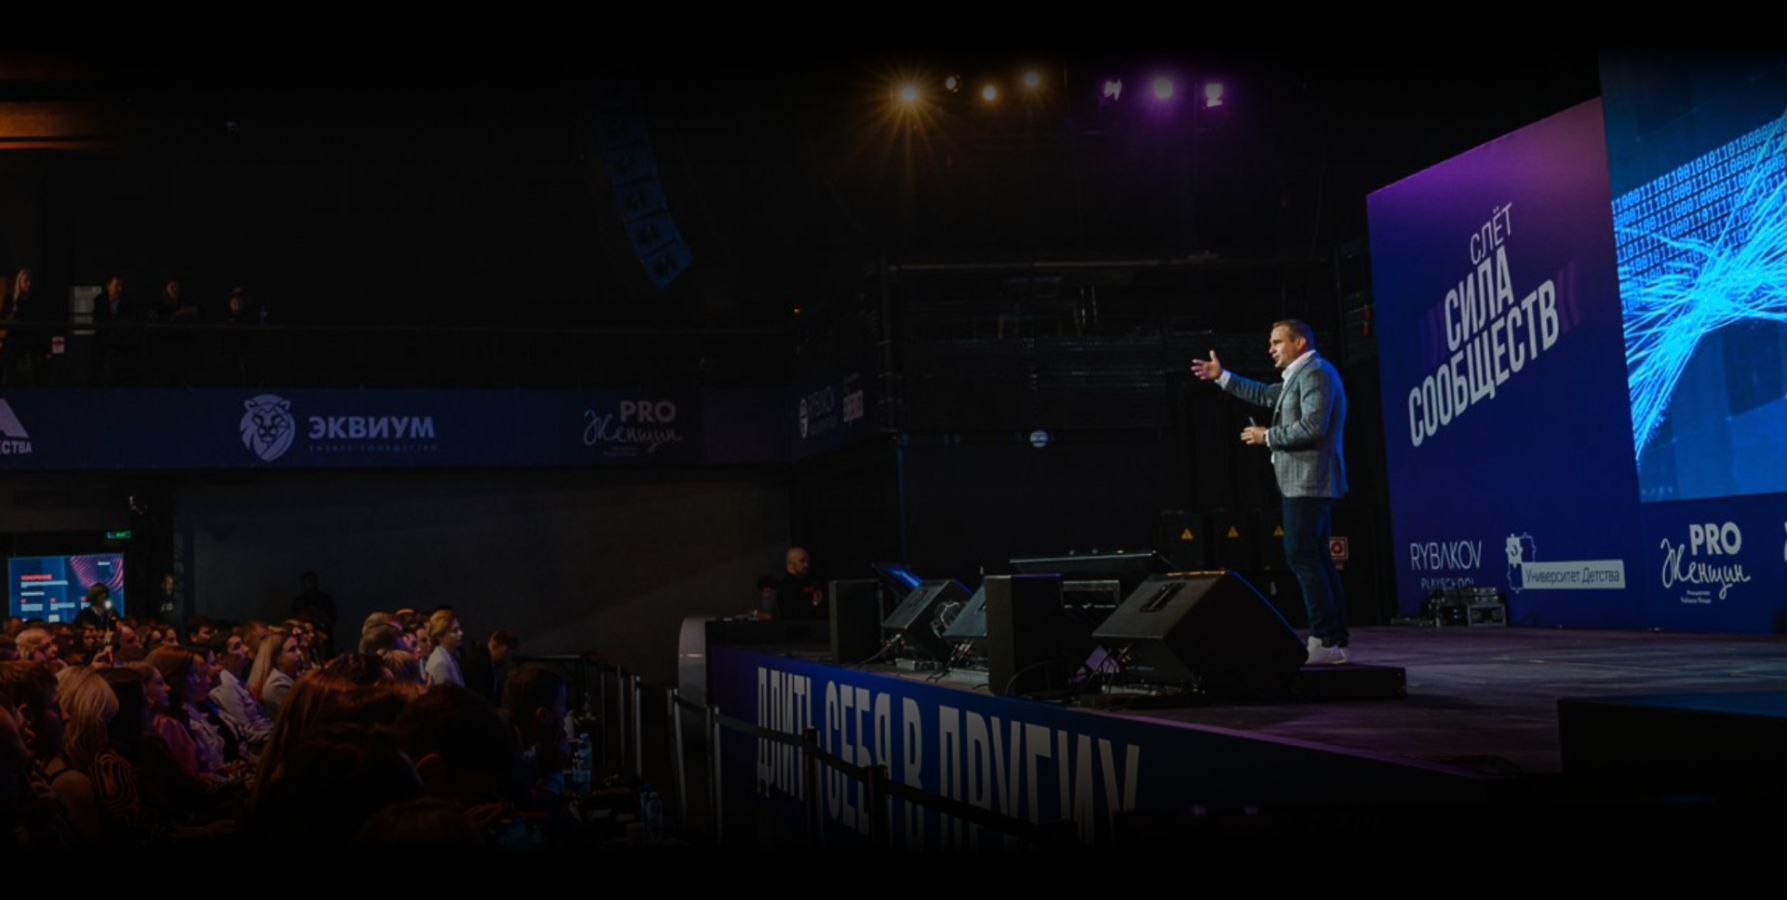
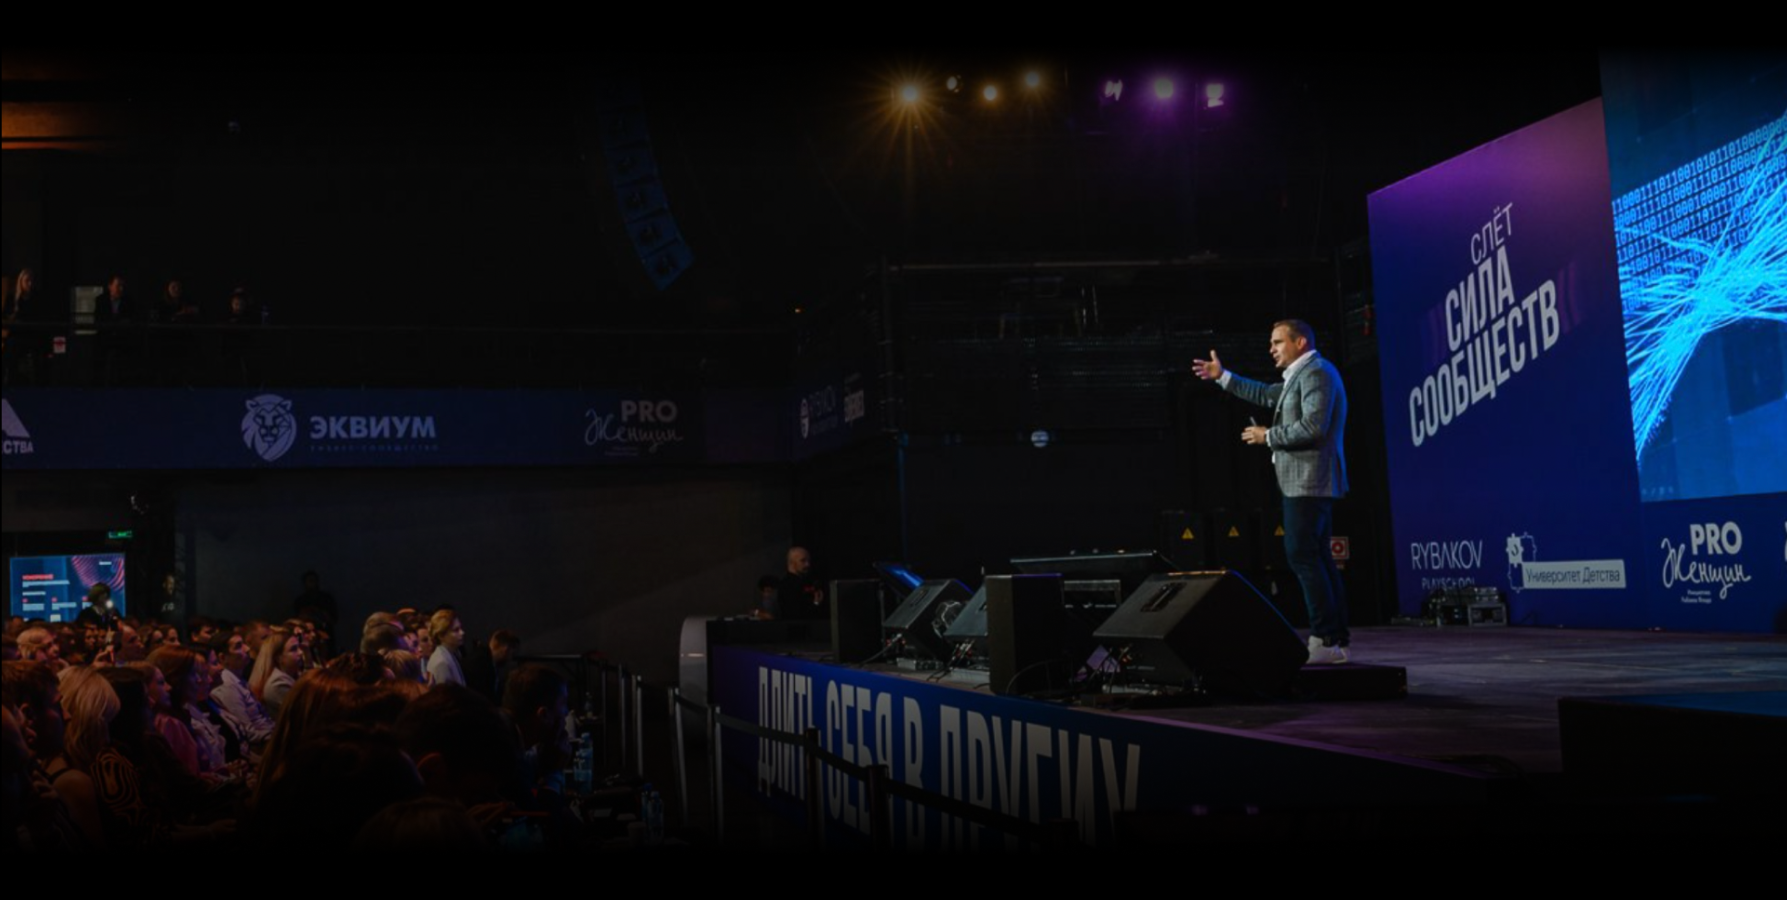
complex bg

diff --git a/index1.html b/index1.html
@@ -154,7 +154,7 @@
             </tr>
             <tr>
                 <td>
-                    <table align="center" valign="top" border="0" bgcolor="#000000" cellspacing="0" cellpadding="0" role="presentation" width="100%" background="photo1.png" height="900" style="width:100%;height:900px; background-image:url(photo1.png);background-position: right 9% top 57px;background-size: auto 100%;background-repeat: no-repeat;background-clip: border-box;">
+                    <table align="center" valign="top" border="0" bgcolor="#000000" cellspacing="0" cellpadding="0" role="presentation" width="100%" background="photo2.png" height="925" style="width:100%;height:925px; background-image:url(photo2.png);background-position: right 9% top 35px;background-size: auto 98%;background-repeat: no-repeat;background-clip: border-box;">
                         <tr>
                             <td style="vertical-align: top;">
                                 <table align="right" valign="top" border="0" cellspacing="0" cellpadding="0" role="presentation" width="100%" background="sphere.png" height="475" style="width:100%;height:475px; background-image:url(sphere.png);background-position: right -188% top 25px;background-size: auto 100%;background-repeat: no-repeat;background-clip: border-box;">
@@ -166,11 +166,33 @@
                         </tr>
                         <tr>
                             <td style="vertical-align: top;">
-                                <table align="right" valign="top" border="0" cellspacing="0" cellpadding="0" role="presentation" width="100%" background="bagel.png" height="475" style="width:100%;height:475px; background-image:url(bagel.png);background-position: right -188% top 25px;background-size: auto 100%;background-repeat: no-repeat;background-clip: border-box;">
+                                <table align="right" valign="top" border="0" cellspacing="0" cellpadding="0" role="presentation" width="100%" height="200" style="width:100%;height:200px;">
                                     <tr>
                                         <td></td>
                                     </tr>
                                 </table>
+                            </td>
+                        </tr>
+                        <tr>
+                            <td style="vertical-align: top;">
+                                <table align="right" valign="top" border="0" cellspacing="0" cellpadding="0" role="presentation" width="100%" background="bagel.png" height="475" style="width:100%;height:290px; background-image:url(bagel.png);background-position: left -31% top 0;background-size: auto 100%;background-repeat: no-repeat;background-clip: border-box;">
+                                    <tr>
+                                        <td></td>
+                                    </tr>
+                                </table>
+                            </td>
+                        </tr>
+                    </table>
+                </td>
+            </tr>
+            <tr>
+                <td style="vertical-align: top;">
+                    <table align="left" valign="top" border="0" bgcolor="#000000" cellspacing="0" cellpadding="0" role="presentation" width="90%">
+                        <tr>
+                            <td style="width:100%;vertical-align: top;padding:56px 0 63px 49px;width:100%;color:#FFFFFF;font-family: 'Open Sans', Arial, Helvetica, sans-serif!important;font-weight:400;font-size:24px;line-height: 1.42;">
+                                <p style="margin:0;padding:0;width:100%">
+                                    Вступайте в закрытый чат участников мероприятия в Telegram, чтобы не пропустить важные новости
+                                </p>
                             </td>
                         </tr>
                     </table>
